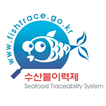
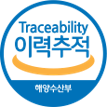
feat: 인증·파트너 이미지 고객 제공 원본으로 일괄 교체
* 인증 5종 (한국 공식 디자인):
  - HACCP: 식약처 안전관리인증
  - ASC: asc-aqua.org 공식
  - MSC: Certified Sustainable Seafood
  - 수산물이력제: 해양수산부 Traceability
  - 수산물품질인증: 해양수산부 QUALITY SEAFOOD
* 파트너 6개사로 확장 (CJ프레시웨이, 웰스토리 신규 추가):
  - 푸드머스 / 풀무원 / 쿠팡 / 두레생협 / CJ프레시웨이 / 웰스토리
  - 모두 고객 제공 원본 이미지 적용
  - grid lg:grid-cols-5 → lg:grid-cols-6
* 기존 자체 디자인 SVG 모두 폐기 (asc.svg, msc.svg, partners/*.svg)
* iso22000.png 잔여 파일 삭제

diff --git a/src/components/sections/PageSections.tsx b/src/components/sections/PageSections.tsx
@@ -12,8 +12,8 @@ import { COMPANY, STATS, PARTNERS, hasValue } from '@/lib/company-config';
 
 const CERT_BADGES = [
   { name: 'HACCP', icon: '/images/certs/haccp.png', desc: '식품안전관리인증', detail: '위해 방지를 위한 사전 예방적 식품안전관리체계' },
-  { name: 'ASC', icon: '/images/certs/asc.svg', desc: '양식 수산물 국제인증', detail: '책임 있는 양식 수산물 생산을 위한 글로벌 지속가능 수산 인증' },
-  { name: 'MSC', icon: '/images/certs/msc.svg', desc: '지속가능어업 국제인증', detail: '지속가능한 어업과 해양 자원 보호를 위한 관리' },
+  { name: 'ASC', icon: '/images/certs/asc.png', desc: '양식 수산물 국제인증', detail: '책임 있는 양식 수산물 생산을 위한 글로벌 지속가능 수산 인증' },
+  { name: 'MSC', icon: '/images/certs/msc.png', desc: '지속가능어업 국제인증', detail: '지속가능한 어업과 해양 자원 보호를 위한 관리' },
   { name: '수산물이력제', icon: '/images/certs/traceability.png', desc: '수산물이력추적시스템', detail: '생산부터 유통까지 투명하게 관리하는 수산물 이력 추적 시스템' },
   { name: '수산물품질인증', icon: '/images/certs/quality.png', desc: '수산물품질인증', detail: '수산물의 품질 향상과 소비자 보호를 위하여 우수한 품질의 수산물을 인증하는 제도' },
 ];
@@ -260,7 +260,7 @@ export default function PageSections({ theme: t }: Props) {
             </div>
           </FadeIn>
           <FadeIn>
-            <div className="mx-auto grid max-w-5xl grid-cols-2 gap-4 sm:grid-cols-3 lg:grid-cols-5">
+            <div className="mx-auto grid max-w-6xl grid-cols-2 gap-4 sm:grid-cols-3 lg:grid-cols-6">
               {PARTNERS.map((p) => (
                 <div key={p.name} className={`flex flex-col items-center justify-between gap-3 rounded-xl border ${cardCls} px-4 py-6 text-center transition-all duration-300 hover:border-ocean-500/30 hover:shadow-md`}>
                   <div className="flex h-16 w-full items-center justify-center">

diff --git a/src/lib/company-config.ts b/src/lib/company-config.ts
@@ -201,9 +201,11 @@ export interface Partner {
 
 export const PARTNERS: Partner[] = [
   { name: '푸드머스', logoPath: '/images/partners/foodmerce.png', description: '전용 MG·R&D 협력' },
-  { name: '풀무원', logoPath: '/images/partners/pulmuone.svg', description: 'ESG 경영 정렬' },
-  { name: '쿠팡', logoPath: '/images/partners/coupang.svg', description: '온라인 유통 채널' },
-  { name: '두레생협', logoPath: '/images/partners/dure.svg', description: '협동조합 유통' },
+  { name: '풀무원', logoPath: '/images/partners/pulmuone.png', description: 'ESG 경영 정렬' },
+  { name: '쿠팡', logoPath: '/images/partners/coupang.png', description: '온라인 유통 채널' },
+  { name: '두레생협', logoPath: '/images/partners/dure.png', description: '협동조합 유통' },
+  { name: 'CJ프레시웨이', logoPath: '/images/partners/cj.png', description: '식자재 유통 파트너' },
+  { name: '웰스토리', logoPath: '/images/partners/welstory.png', description: '단체급식·식자재 공급' },
 ];
 
 /**

diff --git a/src/app/certification/page.tsx b/src/app/certification/page.tsx
@@ -168,7 +168,7 @@ const CERTIFICATIONS: CertificationItem[] = [
     year: '2024년',
     desc: '책임 있는 양식 수산물 생산을 위한 글로벌 지속가능 수산 인증입니다. 전 세계 소비자와 유통사가 신뢰하는 지속가능 양식 표준입니다.',
     photo: null,
-    logo: '/images/certs/asc.svg',
+    logo: '/images/certs/asc.png',
     badge: null,
     status: 'acquired',
   },
@@ -178,7 +178,7 @@ const CERTIFICATIONS: CertificationItem[] = [
     year: '2024년',
     desc: '지속가능한 어업과 해양 자원 보호를 위한 관리 인증입니다. "지속가능한 어업"의 글로벌 기준으로 인정받고 있습니다.',
     photo: null,
-    logo: '/images/certs/msc.svg',
+    logo: '/images/certs/msc.png',
     badge: null,
     status: 'acquired',
   },

diff --git a/src/app/about/page.tsx b/src/app/about/page.tsx
@@ -560,7 +560,7 @@ export default function AboutPage() {
               </Reveal>
 
               <Reveal delay={100}>
-                <div className="mx-auto grid max-w-5xl grid-cols-2 gap-4 sm:grid-cols-3 lg:grid-cols-5">
+                <div className="mx-auto grid max-w-6xl grid-cols-2 gap-4 sm:grid-cols-3 lg:grid-cols-6">
                   {PARTNERS.map((p) => (
                     <div key={p.name} className={`flex flex-col items-center justify-between gap-3 rounded-xl border ${c.cardBorder} ${c.cardBg} px-4 py-6 text-center transition-all duration-300 hover:border-ocean-500/30 hover:shadow-md`}>
                       <div className="flex h-16 w-full items-center justify-center">
